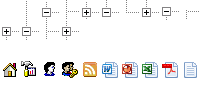
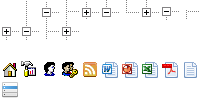
增加了一个图标样式

Changed region(s): [[0.0, 0.81, 0.09, 0.99]]

diff --git a/css/jsxmltree.css b/css/jsxmltree.css
@@ -141,6 +141,10 @@
 	background-position: 0px -60px;
 }
 
+.piece-icon-menu {
+	background-position: 0px -80px;
+}
+
 
 /* 节点的文本样式 */
 .piece-text {
